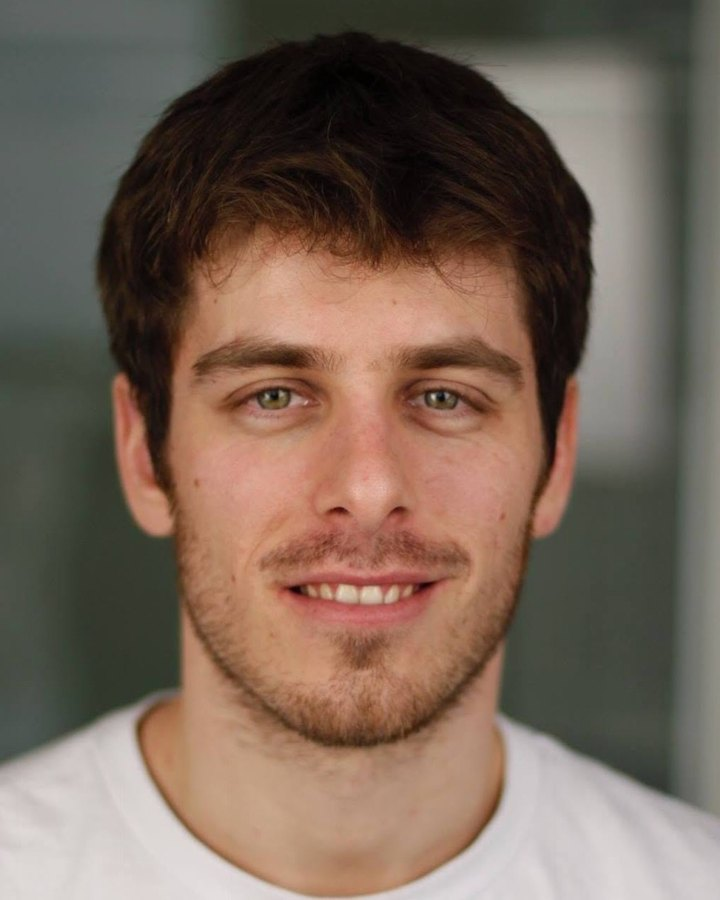
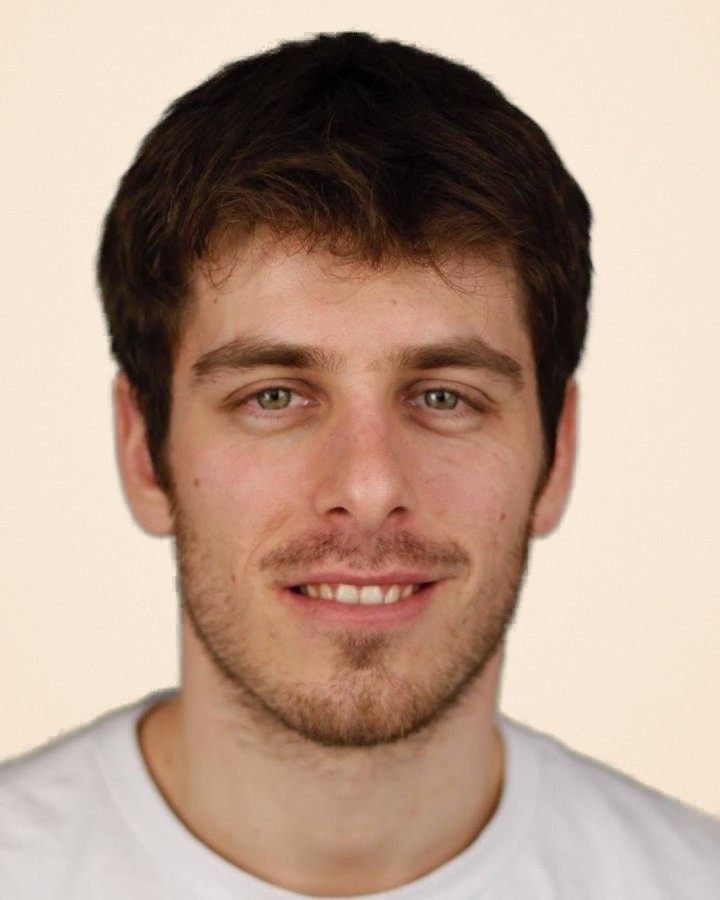
Notion webinar: Lior's photo on the founders' warm backdrop; guest badge in forest/mint Karantina with live dot

diff --git a/notion-webinar/index.html b/notion-webinar/index.html
@@ -145,7 +145,7 @@ h1 .ntw img{width:.62em;height:.62em;transform:translateY(-.04em)}
 .pc2{bottom:0;left:calc(50% - clamp(80px,6.7vw,105px));animation:bobS 7.8s ease-in-out -2.6s infinite}
 .pc3{bottom:0;left:0;animation:bobS 7.4s ease-in-out -5s infinite}
 @keyframes bobS{0%,100%{translate:0 0}50%{translate:0 -5px}}
-.pc3 .gst{position:absolute;top:16px;right:16px;white-space:nowrap;margin:0;box-shadow:0 4px 10px -4px rgba(20,32,26,.45);font:700 12px var(--font);background:var(--yellow);color:var(--t-yellow);border-radius:999px;padding:2px 10px}
+.gst{display:inline-flex;align-items:center;gap:.35em;white-space:nowrap;background:var(--forest);color:var(--mint);font-family:var(--display);font-weight:700;letter-spacing:.03em;border-radius:999px;box-shadow:0 4px 0 #0c1812,0 10px 18px -8px rgba(10,30,20,.5)}.gst::before{content:"";flex:none;width:.32em;height:.32em;border-radius:50%;background:#6FE39A;box-shadow:0 0 0 .14em rgba(111,227,154,.25)}.pc3 .gst{position:absolute;top:16px;right:16px;margin:0;font-size:18px;line-height:1;padding:4px 11px 5px}
 @keyframes bob{0%,100%{translate:0 0}50%{translate:0 -12px}}
 .ai3d{position:absolute;bottom:2%;right:-4%;width:clamp(220px,20vw,290px);background:var(--forest);color:var(--bone);border-radius:16px;padding:14px 16px;font-size:14px;transform:none}
 .ai3d .who{display:flex;align-items:center;gap:8px;font-weight:700;color:#F0A787;margin-bottom:6px}
@@ -334,7 +334,7 @@ h1 .ntw img{width:.62em;height:.62em;transform:translateY(-.04em)}
 .host:hover .ph img{transform:scale(1.05)}
 .host h3{font:700 clamp(40px,3.6vw,56px)/1 var(--display);margin:22px 0 8px;letter-spacing:0}
 .host p{margin:0;font:500 18px/1.45 var(--font);color:var(--ink-2)}
-.host .gst{display:inline-block;margin-top:16px;font:700 30px var(--font);background:var(--yellow);color:var(--t-yellow);border-radius:999px;padding:8px 28px}
+.host .gst{margin-top:18px;font-size:34px;line-height:1;padding:7px 26px 9px}
 
 /* ===== about legal mind ===== */
 .about{padding:clamp(44px,5.5vw,80px) 0}
@@ -498,7 +498,7 @@ footer{padding-bottom:calc(110px + env(safe-area-inset-bottom,0px))}
   .photo-card{position:relative;inset:auto!important;width:calc((100% - 16px)/3);padding:5px 5px 9px;border-radius:14px}
   .photo-card img{border-radius:10px}
   .photo-card b{font-size:13px;margin:7px 2px 0}.photo-card small{font-size:11.5px;margin:2px 2px 0}
-  .pc3 .gst{font-size:11px;padding:1px 7px;top:10px;right:10px}
+  .pc3 .gst{font-size:14px;padding:3px 8px 4px;top:10px;right:10px}
 }
 @media (prefers-reduced-motion:reduce){
   *,*::before,*::after{animation:none!important;transition:none!important;scroll-behavior:auto!important}
@@ -552,7 +552,7 @@ footer{padding-bottom:calc(110px + env(safe-area-inset-bottom,0px))}
       <div class="cards-layer">
         <div class="photo-card pc1"><img src="/notion-webinar/assets/asaf-l.jpg?v=2" alt="" width="720" height="900"><b>עו״ד אסף אברמזון</b><small>מייסד שותף ומנכ״ל <span class="nw">LEGAL MIND</span></small></div>
         <div class="photo-card pc2"><img src="/notion-webinar/assets/roi-l.jpg?v=2" alt="" width="720" height="900"><b>עו״ד רועי נימצוביץ׳</b><small>מייסד שותף ב-<span class="nw">LEGAL MIND</span></small></div>
-        <div class="photo-card pc3"><img src="/notion-webinar/assets/lior-l.jpg" alt="" width="720" height="900"><b>ליאור פרייס</b><small>מפתח אוטומציות</small><span class="gst">מרצה אורח</span></div>
+        <div class="photo-card pc3"><img src="/notion-webinar/assets/lior-l.jpg?v=2" alt="" width="720" height="900"><b>ליאור פרייס</b><small>מפתח אוטומציות</small><span class="gst">מרצה אורח</span></div>
       </div>
     </div>
   </div>
@@ -629,7 +629,7 @@ footer{padding-bottom:calc(110px + env(safe-area-inset-bottom,0px))}
         <h3>עו״ד אסף אברמזון</h3><p>מייסד שותף ומנכ״ל <bdi>LEGAL MIND</bdi>.&rlm; מתמחה בהטמעת AI ובבניית תהליכי עבודה חכמים לעולם המשפט.</p></article>
       <article class="host rv" style="--d:.2s"><div class="ph"><img src="/notion-webinar/assets/roi-l.jpg?v=2" alt="עו״ד רועי נימצוביץ׳" width="720" height="900" loading="lazy"></div>
         <h3>עו״ד רועי נימצוביץ׳</h3><p>מייסד שותף ב-<bdi>LEGAL MIND</bdi>.&rlm; בעל ניסיון של מעל 20 שנה בעסקאות מורכבות, פיננסים וליטיגציה.</p></article>
-      <article class="host rv" style="--d:.3s"><div class="ph"><img src="/notion-webinar/assets/lior-l.jpg" alt="ליאור פרייס" width="720" height="900" loading="lazy"></div>
+      <article class="host rv" style="--d:.3s"><div class="ph"><img src="/notion-webinar/assets/lior-l.jpg?v=2" alt="ליאור פרייס" width="720" height="900" loading="lazy"></div>
         <h3>ליאור פרייס</h3><p>מפתח אוטומציות. יציג מערכת לניהול משרד עו״ד ב-Notion ואת האוטומציות שמחברות אותה לכלים.</p><span class="gst">מרצה אורח</span></article>
     </div>
   </div>
